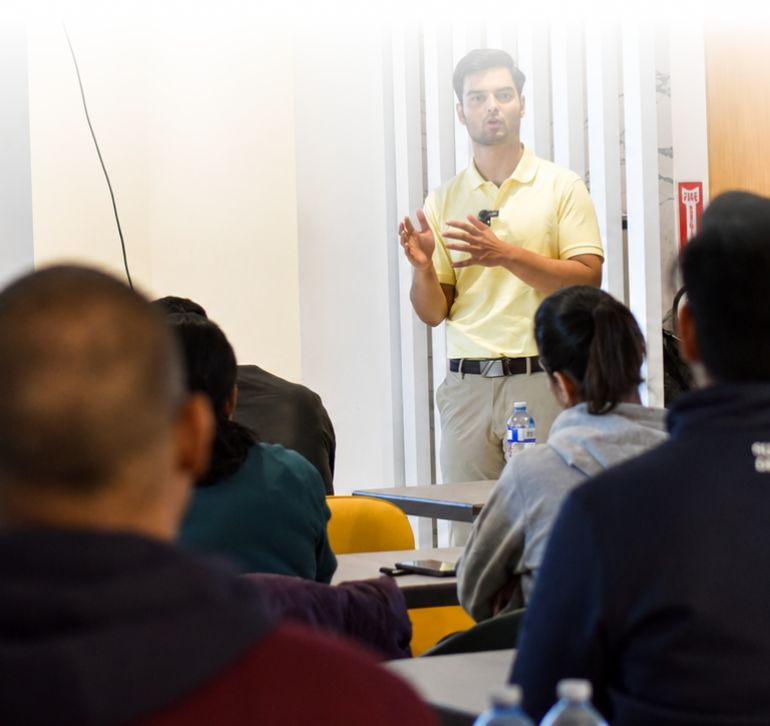
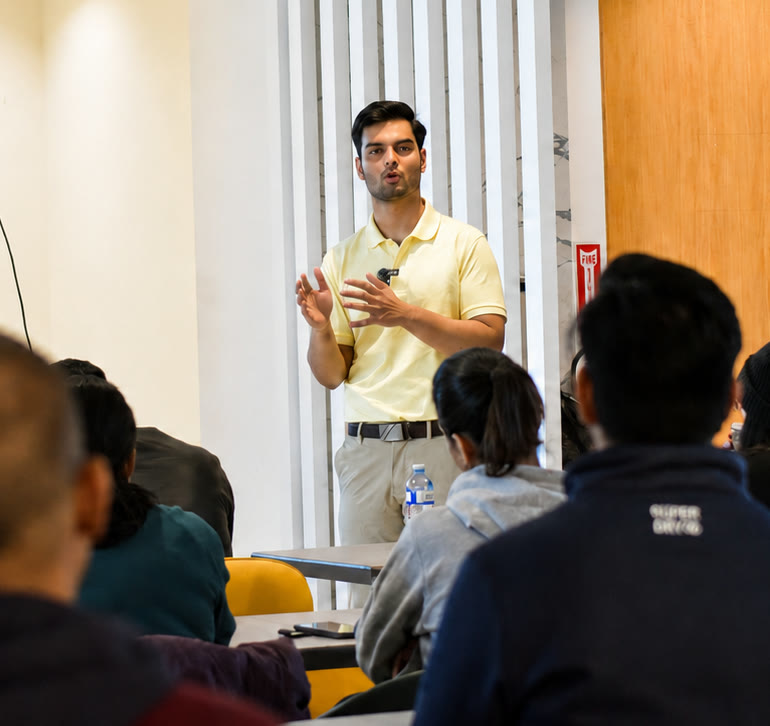
Homepage: real-review testimonials block + corrected Vyom hero face
Testimonials: 3 strongest reviews pulled verbatim from the live reputation
widget (Rajan Gurjar, Sarvesh Paarthasarathy, Appaar), monogram avatars
instead of stock photos, placed after the scorecard marquee.

Hero: Vyom's face corrected via image edit against his real classroom
photo (doc item 1); mobile crop regenerated from the fixed image.
Pre-revision images preserved as *-pre-aug2026.* and wired into
/home-backup-aug2026/ so the backup stays pixel-identical.

Claude-Session: https://claude.ai/code/session_01HhZf1VnzzAHxmMyveX13Ak

diff --git a/next-site/app/home-v2/_components/HomeV2TestimonialQuotes.tsx b/next-site/app/home-v2/_components/HomeV2TestimonialQuotes.tsx
@@ -4,44 +4,43 @@ import { motion } from 'framer-motion';
 import { Quote, Star } from 'lucide-react';
 import Reveal from '@/components/motion/Reveal';
 
-type Quote = {
+// Real reviews pulled verbatim (lightly trimmed) from the Frenchify review
+// widget (reputationhub / Google reviews). Swap freely — keep quotes real.
+type QuoteItem = {
   text: string;
   name: string;
   role: string;
-  avatar: string;
+  initials: string;
   badge: string;
   tone: 'dark' | 'light' | 'amber';
 };
 
-const quotes: Quote[] = [
+const quotes: QuoteItem[] = [
   {
     text:
-      'Walked into TEF Canada having never spoken French six months earlier. Walked out with CLB 8 across all four modules. Frenchify is built around the exam.',
-    name: 'Aanchal Mehta',
-    role: 'Software engineer · moving to Toronto',
-    avatar:
-      'https://images.unsplash.com/photo-1573497019940-1c28c88b4f3e?q=80&w=400&auto=format&fit=crop',
-    badge: 'CLB 8',
+      'Frenchify with Vyom helped me clear the exam in first attempt. Weekly speaking sessions enabled me to speak fluently and get the required scores.',
+    name: 'Rajan Gurjar',
+    role: 'Verified student review · Jan 2026',
+    initials: 'RG',
+    badge: 'Cleared in first attempt',
     tone: 'dark',
   },
   {
     text:
-      'I work full time. There was no way I could attend a 6 PM batch every day. The self-paced lectures plus the weekly doubt calls were the only reason I cleared CLB 7.',
-    name: 'Harpreet Singh',
-    role: 'Product manager · Bengaluru',
-    avatar:
-      'https://images.unsplash.com/photo-1500648767791-00dcc994a43e?q=80&w=400&auto=format&fit=crop',
-    badge: 'CLB 7',
+      'Clear instructions, clear pathway and what not. The gameplan is structured in such a way that if someone who puts in the work, TEF Canada can be cracked in 10 months.',
+    name: 'Sarvesh Paarthasarathy',
+    role: 'Verified student review · Jan 2026',
+    initials: 'SP',
+    badge: 'TEF Canada in 10 months',
     tone: 'light',
   },
   {
     text:
-      'I scored CLB 9 in Speaking. That alone unlocked the maximum French bonus on Express Entry. Vyom drilled the pronunciation patterns until they became reflex.',
-    name: 'Simran Kaur',
-    role: 'Marketing lead · Express Entry',
-    avatar:
-      'https://images.unsplash.com/photo-1580489944761-15a19d654956?q=80&w=400&auto=format&fit=crop',
-    badge: 'CLB 9',
+      'Vyom and his team are amazing, they have themselves cleared the TEF Canada exam and help students like me to clear the exam. The live speaking sessions are the most helpful, it made me very comfortable with the exam format.',
+    name: 'Appaar',
+    role: 'Verified student review · Feb 2026',
+    initials: 'A',
+    badge: 'Live speaking sessions',
     tone: 'amber',
   },
 ];
@@ -54,11 +53,10 @@ export default function HomeV2TestimonialQuotes() {
           <div className="max-w-3xl mb-14">
             <span className="inline-flex items-center gap-2 text-[11px] font-extrabold uppercase tracking-[0.22em] text-[#2667FF]">
               <Star className="h-3.5 w-3.5 fill-current text-[#f59e0b]" />
-              In their own words
+              Student reviews
             </span>
             <h2 className="mt-3 font-display text-[40px] md:text-[56px] lg:text-[64px] font-bold text-[#111827] tracking-[-0.04em] leading-[1.0]">
-              Three students. <br />
-              <span className="gradient-text">Three exam-winning stories.</span>
+              What our students say.
             </h2>
           </div>
         </Reveal>
@@ -134,13 +132,17 @@ export default function HomeV2TestimonialQuotes() {
                   {q.badge}
                 </span>
                 <div className="flex items-center gap-3">
-                  {/* eslint-disable-next-line @next/next/no-img-element */}
-                  <img
-                    src={q.avatar}
-                    alt={q.name}
-                    loading="lazy"
-                    className="h-11 w-11 shrink-0 rounded-full object-cover border-2 border-white shadow-sm"
-                  />
+                  <span
+                    className={`grid h-11 w-11 shrink-0 place-items-center rounded-full font-display text-[14px] font-extrabold border-2 border-white shadow-sm ${
+                      q.tone === 'dark'
+                        ? 'bg-gradient-to-br from-[#2563eb] to-[#3b82f6] text-white'
+                        : q.tone === 'amber'
+                        ? 'bg-gradient-to-br from-[#f59e0b] to-[#fbbf24] text-white'
+                        : 'bg-gradient-to-br from-[#0A1426] to-[#0b1d3a] text-white'
+                    }`}
+                  >
+                    {q.initials}
+                  </span>
                   <div className="min-w-0">
                     <div
                       className={`font-display text-[14px] font-extrabold tracking-tight truncate ${

diff --git a/next-site/app/home-backup-aug2026/_components/HomeV2Hero.tsx b/next-site/app/home-backup-aug2026/_components/HomeV2Hero.tsx
@@ -9,7 +9,7 @@ import Magnetic from '@/components/motion/Magnetic';
 import Reveal from '@/components/motion/Reveal';
 import TextReveal from '@/components/motion/TextReveal';
 
-const HERO_IMAGE_SRC = '/vyom-hero-bg.png';
+const HERO_IMAGE_SRC = '/vyom-hero-bg-pre-aug2026.png';
 
 export default function HomeV2Hero() {
   const sectionRef = useRef<HTMLElement>(null);
@@ -153,7 +153,7 @@ export default function HomeV2Hero() {
             {/* Mobile-only full-width hero image (below the content) */}
             <div className="md:hidden -mx-5 mt-8">
               <Image
-                src="/hero-bg-sm.jpg"
+                src="/hero-bg-sm-pre-aug2026.jpg"
                 alt="Vyom mentoring a live French class"
                 width={770}
                 height={726}

diff --git a/next-site/app/home-v2/page.tsx b/next-site/app/home-v2/page.tsx
@@ -5,6 +5,7 @@ import HomeV2Stats from './_components/HomeV2Stats';
 import HomeV2CurriculumJourney from './_components/HomeV2CurriculumJourney';
 import HomeV2BentoFeatures from './_components/HomeV2BentoFeatures';
 import HomeV2StudentShowcase from './_components/HomeV2StudentShowcase';
+import HomeV2TestimonialQuotes from './_components/HomeV2TestimonialQuotes';
 import HomeV2Faq from './_components/HomeV2Faq';
 import HomeV2MegaCta from './_components/HomeV2MegaCta';
 
@@ -24,6 +25,7 @@ export default function HomeV2Page() {
       <HomeV2CurriculumJourney />
       <HomeV2BentoFeatures />
       <HomeV2StudentShowcase />
+      <HomeV2TestimonialQuotes />
       <HomeV2Faq />
       <HomeV2MegaCta />
     </>
